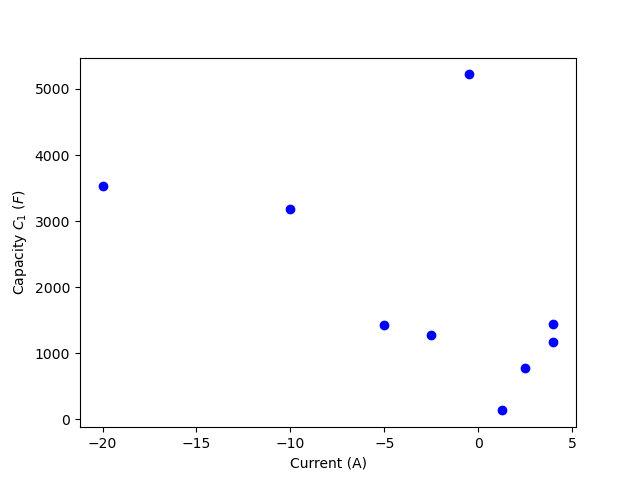
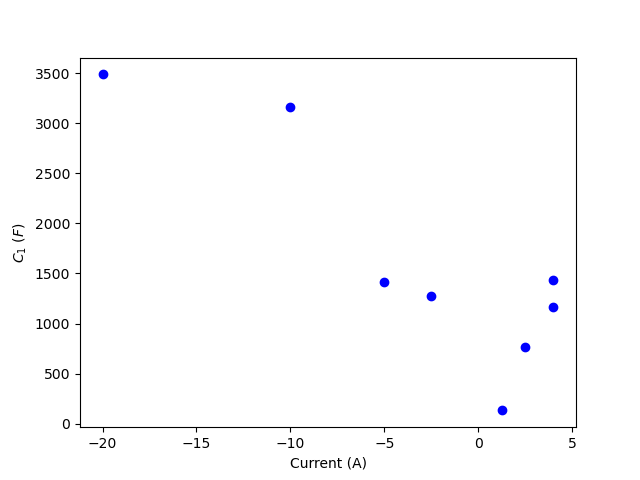
Update - Figures

diff --git a/Cedric_test_part3.py b/Cedric_test_part3.py
@@ -29,25 +29,25 @@ R0_average = 0.019554687500000018
 
 C1_average = 1962.9469051907095
 
-R101 = -119.02362263 #0.07           #@0: 0.06, @20: 0.07, @40: 0.05
-R102 = 119.14161295 #0.006        #@0: 0.017, @20: 0.006, @40: 0.003
-b1 = 0 #-0.5         #@0: -0.5, @20: -0.5, @40: -0.5
-b2 = b1
-c1 = 0.55169725#1          #@0: 0.5, @20: 1, @40: 1
-c2 = 0.55169743#30           #@0: 70, @20: 30, @40: 60
-Offset = 0.0055      #@0: 0.025, @20: 0.0055, @40: 0
+# R101 = -119.02362263 #0.07           #@0: 0.06, @20: 0.07, @40: 0.05
+# R102 = 119.14161295 #0.006        #@0: 0.017, @20: 0.006, @40: 0.003
+# b1 = 0 #-0.5         #@0: -0.5, @20: -0.5, @40: -0.5
+# b2 = b1
+# c1 = 0.55169725#1          #@0: 0.5, @20: 1, @40: 1
+# c2 = 0.55169743#30           #@0: 70, @20: 30, @40: 60
+# Offset = 0.0055      #@0: 0.025, @20: 0.0055, @40: 0
 
-# R101 = 1.48113763e-01
-# R102 = 5.65859345e-03
-# b1 = 0
-# b2 = 1.26842729e+00
-# c1 = 3.30006677e-01
-# c2 = 1.19474291e+02
-# Offset = 0.0055 # 90% 0.007 60% 0.0046
+R101 = 1.48113763e-01
+R102 = 5.65859345e-03
+b1 = 0
+b2 = 1.26842729e+00
+c1 = 3.30006677e-01
+c2 = 1.19474291e+02
+Offset = 0.0055 # 90% 0.007 60% 0.0046
 
 R = 8.314
 T0 = 293.15 #293.15  60%: 330
-E = -11750  # 60% -101000
+E = -12825  # 60% -101000
 
 def R1_final(T,I):
     return R101*np.exp(-(I-b1)**2/c1)*np.exp(-E/R*(1/T-1/T0))+R102*np.exp(-(I-b2)**2/c2)*np.exp(-E/R*(1/T-1/T0))+Offset
@@ -109,22 +109,68 @@ plt.plot(Time, T_cell)
 #plt.plot(Time,Q_contr,color='purple', linestyle='dashed', linewidth=0.5)
 plt.xlabel('Time (s)')
 plt.ylabel('Temperature (°C)')
-plt.legend(['Temperature - testing data','Temperature - modelisation'])
+plt.legend(['Testing data','Model'])
 plt.show()
 
+fig, ax1 = plt.subplots()
+ax2 = ax1.twinx()
+error = (V_model-V_model_testing)/V_model_testing*100
+ax1.plot(Time,error,'b-')
+ax2.plot(Time,I_model,'g-')
+#plt.plot(Time,R1_cont,color='green', linestyle='dashed', linewidth=0.5)
+#plt.plot(Time,I_R1,color='red', linestyle='dashed', linewidth=0.5)
+ax1.set_xlabel('Time (s)')
+ax1.set_ylabel('Percentage Error - Voltage (%)', color='b')
+ax1.set_ylim([-4,4])
+ax2.set_ylabel('Current (A)', color='g')
+ax2.set_ylim([-15.5,15.5])
+plt.show()
 
-plt.figure(2)
+plt.figure(3)
+plt.plot(Time,error,'b-')
+plt.xlabel('Time (s)')
+plt.ylabel('Percentage Error - Voltage (%)', color='b')
+plt.show()
+
+Error_total = 0
+for k in range(N):
+    Error_total += abs(V_model_testing[k]-V_model[k])
+
+Error_total = Error_total/N
+print('Error_total=',Error_total)
+
+plt.figure(4)
 plt.plot(Time,I_model)
 plt.plot(Time,I_R1,color='red', linestyle='dashed', linewidth=0.5)
 plt.xlabel('Time (s)')
 plt.ylabel('Current (A)')
-plt.legend(['Training data','I_R1'])
+plt.legend(['testing data','I_R1'])
 plt.show()
 
-plt.figure(3)
+plt.figure(5)
 plt.plot(Time,V_model_testing)
 plt.plot(Time,V_model,color='red', linestyle='dashed', linewidth=0.5)
 plt.xlabel('Time (s)')
 plt.ylabel('Voltage (V)')
-plt.legend(['Voltage - testing data','Voltage - modelisation'])
+plt.legend(['Testing data','Model'])
+plt.show()
+
+fig, ax1 = plt.subplots()
+ax2 = ax1.twinx()
+error = (T_cell-T_model_testing)/T_model_testing*100
+ax1.plot(Time,error,'b-')
+ax2.plot(Time,I_model,'g-')
+#plt.plot(Time,R1_cont,color='green', linestyle='dashed', linewidth=0.5)
+#plt.plot(Time,I_R1,color='red', linestyle='dashed', linewidth=0.5)
+ax1.set_xlabel('Time (s)')
+ax1.set_ylabel('Percentage Error - Temperature (%)', color='b')
+ax1.set_ylim([-0.6,0.6])
+ax2.set_ylabel('Current (A)', color='g')
+ax2.set_ylim([-15.5,15.5])
+plt.show()
+
+plt.figure(7)
+plt.plot(Time,error,'b-')
+plt.xlabel('Time (s)')
+plt.ylabel('Percentage Error - Temperature (%)', color='b')
 plt.show()

diff --git a/Cedric_param_part2_Vf.py b/Cedric_param_part2_Vf.py
@@ -38,6 +38,11 @@ V_impulse = []
 V_impulse_plus1 = []
 V_converged_list=[]
 
+time_end_impulse_R1 = []
+time_converged_R1 = []
+V_impulse_R1 = []
+V_converged_list_R1 = []
+
 R0_average = 0.019554687500000018
 
 for i in range (N):
@@ -69,6 +74,15 @@ for i in range (N):
     elif I_model_training[i]!=0 and I_model_training[i+1]==0 and Time[i]==72228.311:
         dVinf = abs(V_model_training[i+3000]-V_model_training[i])
         dIinf = abs(I_model_training[i+3000]-I_model_training[i])
+        V_impulse_R1.append(V_model_training[i])
+        V_converged_list_R1.append(V_model_training[i+3000])
+        time_end_impulse_R1.append(Time[i])
+        j = i
+        V_converged = V_model_training[j]
+        while V_converged != V_model_training[i+3000]:
+            j +=1
+            V_converged = V_model_training[j]
+        time_converged_R1.append(Time[j])
         R1_discharge_60 = dVinf/dIinf-R0_average
         I_discharge_60 = I_model_training[i]
 
@@ -110,9 +124,9 @@ I_data = np.array(I_data)
 
 ## For the fitting of R1
 
-b1 = b2 = 0
+b1 = 0
 
-def R1_final(I, r1, c1, r2, c2):
+def R1_final(I, r1, c1, r2, b2, c2):
     return r1*np.exp(-(I-b1)**2/c1)+r2*np.exp(-(I-b2)**2/c2)+0.0055
 
 R1_data = R1_list[i:i2]
@@ -121,12 +135,12 @@ R1_data = np.array(R1_data)
 
 popt, popc = sci.curve_fit(R1_final, I_data, R1_data, maxfev = 999999999)
 
-r1_opt1, c1_opt1, r2_opt2, c2_opt2 = popt
+r1_opt1, c1_opt1, r2_opt2, b2_opt2, c2_opt2 = popt
 
 
 I_range = np.linspace(min(I_data), max(I_data), 1000)
 
-R1_fit = R1_final(I_range, r1_opt1, c1_opt1, r2_opt2, c2_opt2)
+R1_fit = R1_final(I_range, r1_opt1, c1_opt1, r2_opt2, b2_opt2, c2_opt2)
 
 
 
@@ -134,25 +148,51 @@ plt.figure(1)
 plt.plot(I_data,R1_data,"ob")
 plt.plot(I_range,R1_fit,color='red', linestyle='dashed', linewidth=0.5)
 plt.xlabel('Current (A)')
-plt.ylabel('Resistance R1 (Ohm)')
+plt.ylabel('$R_1$ ($\Omega$)')
 plt.legend(['Training data','Model'])
 plt.show()
 
-plt.figure(4)
+plt.figure(2)
 plt.plot(Time,z)
 plt.xlabel('Time (s)')
 plt.ylabel('SOC (%)')
 plt.legend(['Model'])
 plt.show()
 
-plt.figure(5)
+plt.figure(3)
 plt.plot(I_fit_R1[i:i2],R0_list[i:i2],"ob")
 plt.xlabel('Current (A)')
-plt.ylabel('Resistance $R_0$ ($\Omega$)')
+plt.ylabel('$R_0$ ($\Omega$)')
 plt.show()
 
-plt.figure(6)
+plt.figure(4)
 plt.plot(I_fit_R1[i:i2],C1_list[i:i2],"ob")
 plt.xlabel('Current (A)')
-plt.ylabel('Capacity $C_1$ ($F$)')
+plt.ylabel('$C_1$ ($F$)')
 plt.show()
+
+plt.figure(5)
+plt.plot(time_converged,V_converged_list,"ob")
+plt.plot(time_end_impulse,V_impulse,"or")
+plt.plot(time_end_impulse_plus1,V_impulse_plus1,"og")
+plt.plot(Time,V_model_training)
+plt.xlabel('Time (s)')
+plt.ylabel('Potential (V)')
+plt.legend(['$V_{converged}$','$V_{end-impulse}$','$V_{end-impulse+1}$','$V_{training}$'])
+plt.show()
+
+for k in range(i,i2):
+    time_converged_R1.append(time_converged[k])
+    V_converged_list_R1.append(V_converged_list[k])
+    time_end_impulse_R1.append(time_end_impulse[k])
+    V_impulse_R1.append(V_impulse[k])
+
+plt.figure(6)
+plt.plot(time_converged_R1,V_converged_list_R1,"ob")
+plt.plot(time_end_impulse_R1,V_impulse_R1,"or")
+plt.plot(Time,V_model_training)
+plt.xlabel('Time (s)')
+plt.ylabel('Potential (V)')
+plt.legend(['$V_{converged}$','$V_{end-impulse}$','$V_{training}$'])
+plt.show()
+

diff --git a/Cedric_test_part2.py b/Cedric_test_part2.py
@@ -28,13 +28,13 @@ R0_average = 0.019554687500000018
 
 C1_average = 1962.9469051907095
 
-R101 = -119.02362263 #0.07           #@0: 0.06, @20: 0.07, @40: 0.05
-R102 = 119.14161295 #0.006        #@0: 0.017, @20: 0.006, @40: 0.003
-b1 = 0 #-0.5         #@0: -0.5, @20: -0.5, @40: -0.5
-b2 = b1
-c1 = 0.55169725#1          #@0: 0.5, @20: 1, @40: 1
-c2 = 0.55169743#30           #@0: 70, @20: 30, @40: 60
-Offset = 0.0055      #@0: 0.025, @20: 0.0055, @40: 0
+R101 = 1.48113763e-01
+R102 = 5.65859345e-03
+b1 = 0
+b2 = 1.26842729e+00
+c1 = 3.30006677e-01
+c2 = 1.19474291e+02
+Offset = 0.0055
 
 def R1_final(I):
     res = 0
@@ -85,31 +85,50 @@ for k in range(N):
 plt.figure(1)
 plt.plot(Time,V_model_training)
 plt.plot(Time,V_model,color='red', linestyle='dashed', linewidth=0.5)
-plt.plot(Time,R0_cont,color='black', linestyle='dashed', linewidth=0.5)
-plt.plot(Time,R1_cont,color='green', linestyle='dashed', linewidth=0.5)
-plt.plot(Time,OCV_cont,color='purple', linestyle='dashed', linewidth=0.5)
+#plt.plot(Time,R0_cont,color='black', linestyle='dashed', linewidth=0.5)
+#plt.plot(Time,R1_cont,color='green', linestyle='dashed', linewidth=0.5)
+#plt.plot(Time,OCV_cont,color='purple', linestyle='dashed', linewidth=0.5)
 plt.xlabel('Time (s)')
 plt.ylabel('Voltage (V)')
-plt.legend(['Training data','Model','Contribution R0','Contribution R1','Contribution OCV'])
+plt.legend(['Testing data','Model'])
 plt.show()
 
-plt.figure(2)
-plt.plot(Time,I_model)
-plt.plot(Time,R1_cont,color='green', linestyle='dashed', linewidth=0.5)
-plt.plot(Time,I_R1,color='red', linestyle='dashed', linewidth=0.5)
-plt.xlabel('Time (s)')
-plt.ylabel('Current (A)')
-plt.legend(['Training data','Contribution R1','I_R1'])
+fig, ax1 = plt.subplots()
+ax2 = ax1.twinx()
+error = (V_model-V_model_training)/V_model_training*100
+ax1.plot(Time,error,'b-')
+ax2.plot(Time,I_model,'g-')
+#plt.plot(Time,R1_cont,color='green', linestyle='dashed', linewidth=0.5)
+#plt.plot(Time,I_R1,color='red', linestyle='dashed', linewidth=0.5)
+ax1.set_xlabel('Time (s)')
+ax1.set_ylabel('Percentage Error - Voltage (%)', color='b')
+ax1.set_ylim([-4,4])
+ax2.set_ylabel('Current (A)', color='g')
+ax2.set_ylim([-15.5,15.5])
 plt.show()
 
 plt.figure(3)
+plt.plot(Time,error,'b-')
+plt.xlabel('Time (s)')
+plt.ylabel('Percentage Error - Voltage (%)', color='b')
+plt.show()
+
+Error_total = 0
+for k in range(N):
+    Error_total += abs(V_model_training[k]-V_model[k])
+
+Error_total = Error_total/N
+print('Error_total=',Error_total)
+
+
+plt.figure(4)
 plt.plot(Time,z)
 plt.xlabel('Time (s)')
 plt.ylabel('SOC (%)')
 plt.legend(['Model'])
 plt.show()
 
-plt.figure(4)
+plt.figure(5)
 plt.plot(Time,R1_final_list)
 plt.xlabel('Time (s)')
 plt.ylabel('R1_final (Ohm)')
